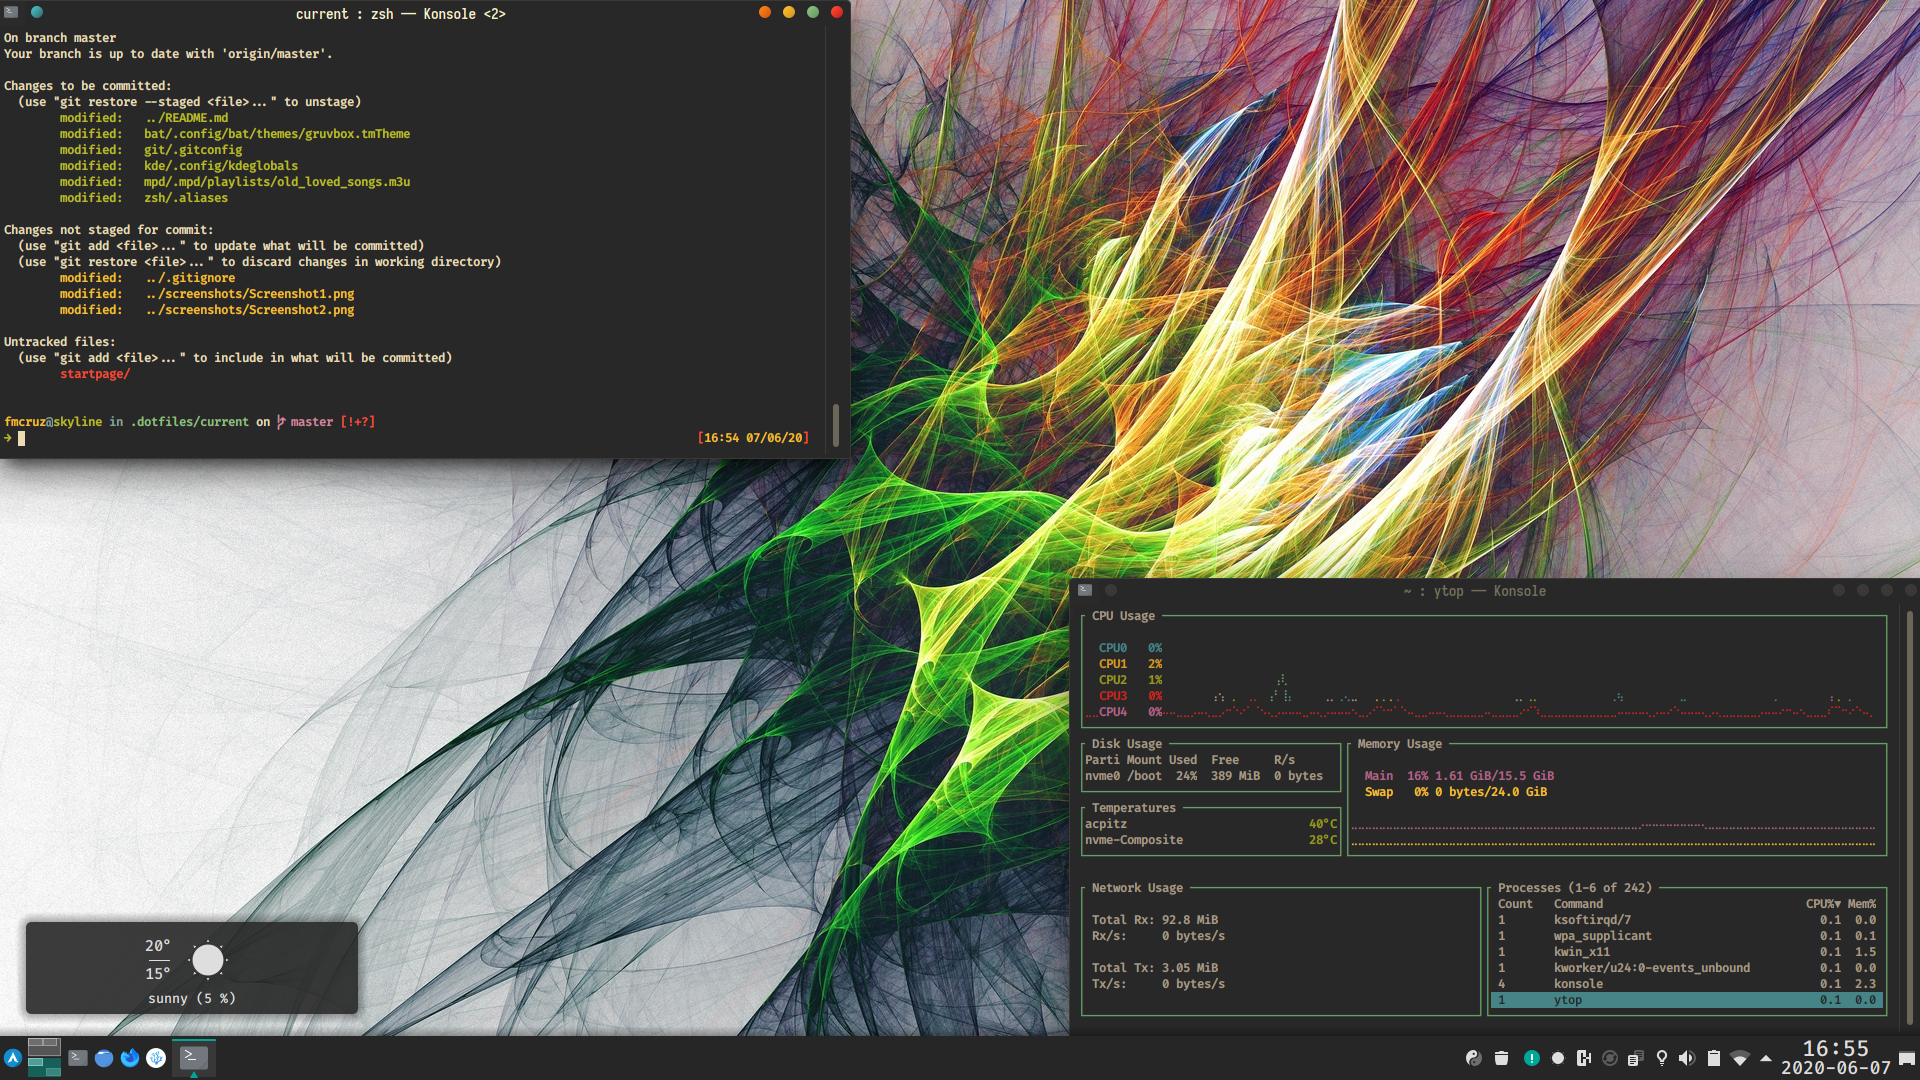
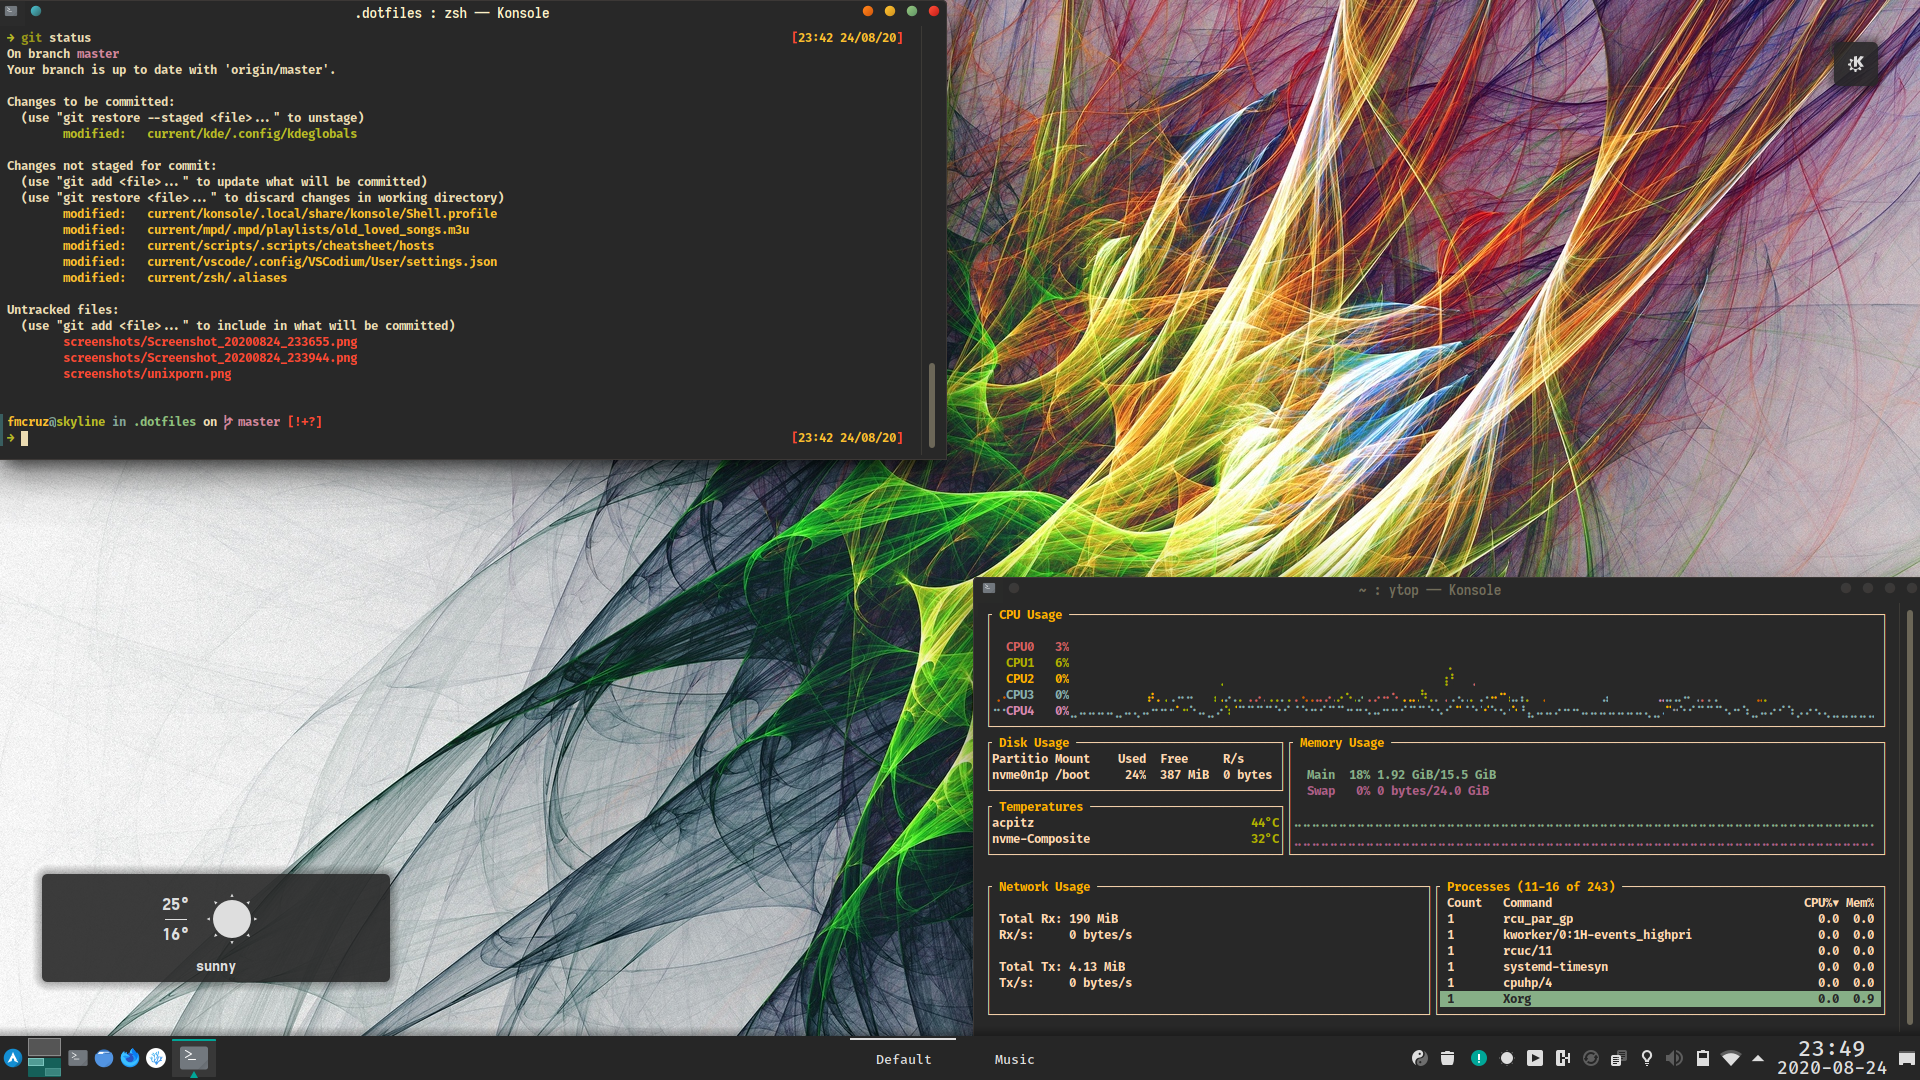
Update Screenshots with activities widget

diff --git a/README.md b/README.md
@@ -21,6 +21,8 @@ This helps a lot with all the scripting and configs.
 
 ![screenshot](screenshots/Screenshot5.png)
 
+![screenshot](screenshots/Screenshot6.png)
+
 ## Contents
 
 ### `/bat`
